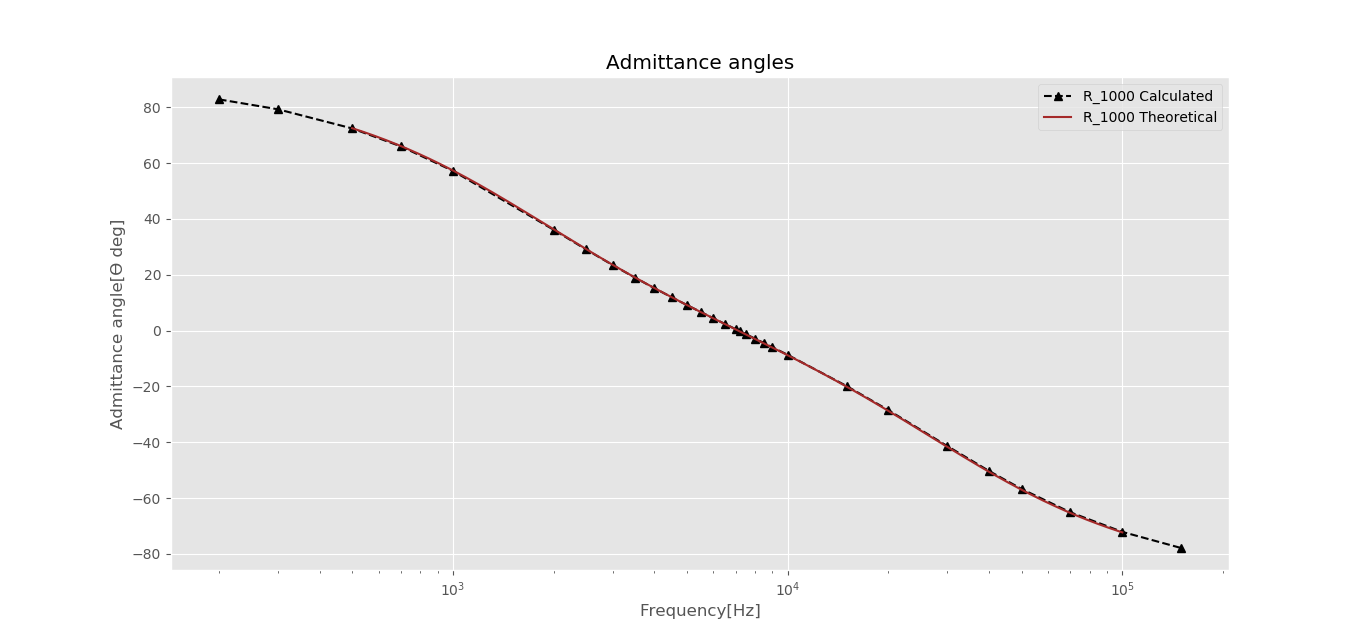
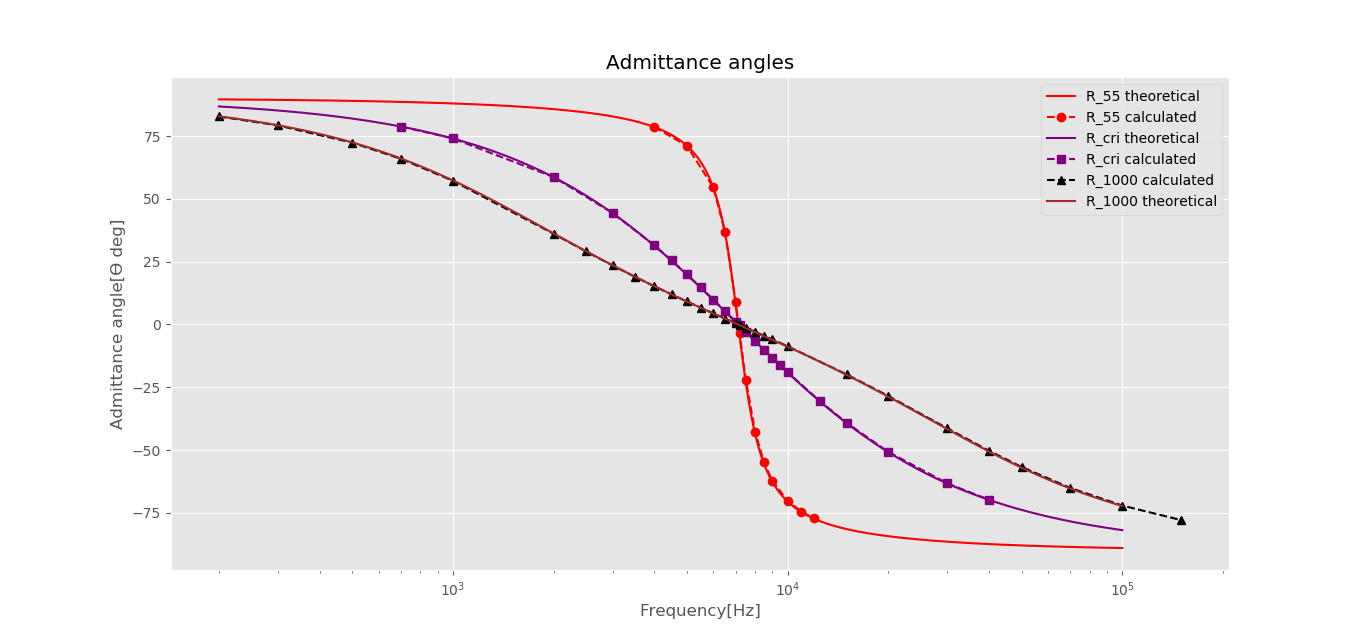
Finally finished

diff --git a/jikken20191205.py b/jikken20191205.py
@@ -89,17 +89,17 @@ df_1000.columns = ["frequency", "X/R", "L/R", "C/R"]
 df_45 = df_45[df_45["X/R"]>=-1.5]
 df_45 = df_45[df_45["X/R"]<=1.5]
 
-df_55 = df_55[df_55["X/R"]>=-1.5]
-df_55 = df_55[df_55["X/R"]<=1.5]
+df_55 = df_55[df_55["X/R"]>=-5]
+df_55 = df_55[df_55["X/R"]<=5]
 
 df_65 = df_65[df_65["X/R"]>=-1.5]
 df_65 = df_65[df_65["X/R"]<=1.5]
 
-df_447 = df_447[df_447["X/R"]>=-1.5]
-df_447 = df_447[df_447["X/R"]<=1.5]
+df_447 = df_447[df_447["X/R"]>=-5.1]
+df_447 = df_447[df_447["X/R"]<=3]
 
-df_1000 = df_1000[df_1000["X/R"]>=-1.5]
-df_1000 = df_1000[df_1000["X/R"]<=1.5]
+df_1000 = df_1000[df_1000["X/R"]>=-8]
+df_1000 = df_1000[df_1000["X/R"]<=5]
 
 
 x_min_1 = [i for i in range(df_1000.iloc[0,0],2000,10)]
@@ -115,7 +115,45 @@ y_l_range_1 = np.arange(-1.2,-0.4,0.01)
 
 y_l_range_2 = np.arange(-0.8,1.2,0.01)
 
-plt.plot(df_1000["frequency"],df_1000["X/R"],color="blue",label = "VX1k")
+
+
+f_c_1000 = [200,300,500,700,1000,2000,2500,3000,3500,4000,4500,5000,5500,6000
+,6500,7000,7186,7500,8000,8500,9000,10000,15000,20000,30000,40000,50000,70000,100000,150000]
+
+a_c_1000 = [-7.96499748
+,-5.304852833
+,-3.173032364
+,-2.255866686
+,-1.56336149
+,-0.7353713599
+,-0.560511457
+,-0.4387927011
+,-0.347440315
+,-0.2750669101
+,-0.2153461592
+,-0.1644822662
+,-0.1200597243
+,-0.08046819577
+,-0.0445928314
+,-0.01163731027
+,0
+,0.01898233626
+,0.04770408468
+,0.07486285818
+,0.1007191526
+,0.1493057916
+,0.3568115551
+,0.5377467451
+,0.8730465515
+,1.195061071
+,1.511761476
+,2.138329853
+,3.071349985
+,4.620310264]
+
+
+plt.plot(df_1000["frequency"],df_1000["X/R"],color="blue",label = "VX1k theoretical")
+plt.plot(f_c_1000,a_c_1000,color="blue",linestyle = "--",marker = "^",label = "VX1k calculated")
 plt.plot(df_1000["frequency"],df_1000["L/R"],linestyle = ":",color="red",label = "VL1k")
 plt.plot(df_1000["frequency"],df_1000["C/R"],linestyle = "-.",color="green",label = "VC1k")
 plt.plot(x_min_1,[-1]*len(x_min_1),linestyle = "--",color = "black",linewidth = 0.5)
@@ -177,9 +215,19 @@ y_l_range_1 = np.arange(-1.2,-0.4,0.01)
 
 y_l_range_2 = np.arange(-0.8,1.2,0.01)
 
-plt.plot(df_447["frequency"],df_447["X/R"],color="blue",label = "VX1k")
-plt.plot(df_447["frequency"],df_447["L/R"],linestyle = ":",color="red",label = "VL1k")
-plt.plot(df_447["frequency"],df_447["C/R"],linestyle = "-.",color="green",label = "VC1k")
+f_c_cri = [700,1000,2000,3000,4000,4500,5000,5500,6000,6500,7000,7186,7500,8000
+           ,8500,9000,9500,10000,12500,15000,20000,30000,40000]
+
+a_c_cri = [-5.084151326,-3.523420262,-1.657340523,-0.9889274515,-0.6199310465,
+           -0.4853356217,-0.3707013081,-0.2705841662,-0.1813549031,-0.1005009313
+           ,-0.02622754562,0,0.04278137118,0.107512907,0.1687218939,0.2269954232
+           ,0.2827969883,0.3364973838,0.5823067298,0.8041627424,1.211944768
+           ,1.967625485,2.693364535]
+
+plt.plot(df_447["frequency"],df_447["X/R"],color="blue",label = "Vcri theoretical")
+plt.plot(f_c_cri,a_c_cri,color="blue",marker = "^",linestyle = "--",label = "Vcri calculated")
+plt.plot(df_447["frequency"],df_447["L/R"],linestyle = ":",color="red",label = "VL_cri")
+plt.plot(df_447["frequency"],df_447["C/R"],linestyle = "-.",color="green",label = "VC_cri")
 plt.plot(x_min_1,[-1]*len(x_min_1),linestyle = "--",color = "black",linewidth = 0.5)
 plt.plot(x_max_1,[1]*len(x_max_1),linestyle = "--",color = "black", linewidth = 0.5)
 plt.plot([7117.0]*len(y_0),y_0,linestyle = "--",color = "black", linewidth = 0.5)
@@ -235,9 +283,17 @@ y_l_range_1 = np.arange(-1.2,-0.4,0.01)
 
 y_l_range_2 = np.arange(-0.8,1.2,0.01)
 
-plt.plot(df_55["frequency"],df_55["X/R"],color="blue",label = "VX1k")
-plt.plot(df_55["frequency"],df_55["L/R"],linestyle = ":",color="red",label = "VL1k")
-plt.plot(df_55["frequency"],df_55["C/R"],linestyle = "-.",color="green",label = "VC1k")
+f_c_55 = [4000,5000,6000,6500,7000,7186,7500,8000,8500,9000,10000,11000,12000]
+
+a_c_55 = [-5.005501016,-2.993148649,-1.464311485,-0.8114733349,-0.2117687233
+          ,0,0.3454290572,0.8680900376,1.362308947,1.832826131,2.716976357
+          ,3.54251868,4.324105076]
+
+plt.plot(df_55["frequency"],df_55["X/R"],color="blue",label = "VX55 theoretical")
+plt.plot(f_c_55,a_c_55,color="blue",linestyle = "--",marker = "^",label = "VX55 calculated")
+
+plt.plot(df_55["frequency"],df_55["L/R"],linestyle = ":",color="red",label = "VL55")
+plt.plot(df_55["frequency"],df_55["C/R"],linestyle = "-.",color="green",label = "VC55")
 plt.plot(x_min_1,[-1]*len(x_min_1),linestyle = "--",color = "black",linewidth = 0.5)
 plt.plot(x_max_1,[1]*len(x_max_1),linestyle = "--",color = "black", linewidth = 0.5)
 plt.plot([7117.0]*len(y_0),y_0,linestyle = "--",color = "black", linewidth = 0.5)
@@ -339,35 +395,66 @@ print(y_2_1000[-1])
 df_2_45 = pd.DataFrame(y_2_45)
 #df_45 = df_45.transpose()
 df_2_45.columns = ["frequency", "a_r", "theta"]
-df_2_45 = df_2_45[df_2_45["frequency"]>=500]
+df_2_45 = df_2_45[df_2_45["frequency"]>=200]
 
 df_2_55 = pd.DataFrame(y_2_55)
 #df_55 = df_55.transpose()
 df_2_55.columns = ["frequency", "a_r", "theta"]
-df_2_55 = df_2_55[df_2_55["frequency"]>=500]
+df_2_55 = df_2_55[df_2_55["frequency"]>=200]
 df_2_65 = pd.DataFrame(y_2_65)
 #df_65 = df_65.transpose()
 df_2_65.columns = ["frequency", "a_r", "theta"]
-df_2_65 = df_2_65[df_2_65["frequency"]>=500]
+df_2_65 = df_2_65[df_2_65["frequency"]>=200]
 df_2_447 = pd.DataFrame(y_2_447)
 #df_2_447 = df_2_447.transpose()
 df_2_447.columns = ["frequency", "a_r", "theta"]
-df_2_447 = df_2_447[df_2_447["frequency"]>=500]
+df_2_447 = df_2_447[df_2_447["frequency"]>=200]
 df_2_1000 = pd.DataFrame(y_2_1000)
 #df_2_1000 = df_2_1000.transpose()
 df_2_1000.columns = ["frequency", "a_r", "theta"]
-df_2_1000 = df_2_1000[df_2_1000["frequency"]>=500]
+df_2_1000 = df_2_1000[df_2_1000["frequency"]>=200]
 
 x_max = [i for i in range(500,100000,10)]
 y_l_range_1 = np.arange(0.1,0.7071,0.01)
 
 y_l_range_2 = np.arange(0.1,0.7071,0.01)
 
+
+f_c_55 = [4000,5000,6000,6500,7000,7186,7500,8000,8500,9000,10000,11000,12000]
+r_c_55 = [0.1980382166,0.3228587262,0.5824262133,0.8041896846,0.9909438593,0.9969919272
+          ,0.9201027747,0.7241196452,0.5675194628,0.4608886527,0.334401563,0.264065216,0.2195826859]
+a_c_55 = [-5.005501016,-2.993148649,-1.464311485,-0.8114733349,-0.2117687233
+          ,0,0.3454290572,0.8680900376,1.362308947,1.832826131,2.716976357
+          ,3.54251868,4.324105076]
+
+f_c_cri = [700,1000,2000,3000,4000,4500,5000,5500,6000,6500,7000,7186,7500,8000
+           ,8500,9000,9500,10000,12500,15000,20000,30000,40000]
+r_c_cri = [0.1933500199,0.2735681664,0.5178938103,0.7130765429,0.8523785658
+           ,0.9020651428,0.9398791836,0.9671742543,0.9853642141,0.995830006
+           ,0.9998589835,0.9999535796,0.9986108932,0.993103724,0.9842131391
+           ,0.9726803628,0.9591246922,0.9440579787,0.8582283279,0.7721770576
+           ,0.6287795731,0.4464221896,0.3425882718]
+
+f_c_1000 = [200,300,500,700,1000,2000,2500,3000,3500,4000,4500,5000,5500,6000
+,6500,7000,7186,7500,8000,8500,9000,10000,15000,20000,30000,40000,50000,70000,100000,150000]
+r_c_1000 = [0.1247800941,0.1855518723,0.3010687553,0.4058897609,0.5396333826
+            ,0.8065551563,0.8732198414,0.9165712733,0.9453889816,0.9648870686
+            ,0.9781974215,0.9872504415,0.9932724693,0.9970667025,0.9991748017
+            ,0.9999722296,0.9999908595,0.9997260317,0.9986307895,0.9968315599
+            ,0.994438853,0.9881990594,0.9393403011,0.8766815485,0.7472099465
+            ,0.634908497,0.5448629131,0.4175147677,0.3047158307,0.2080323264]
+
+
+
+
 #plt.plot(df_2_45["frequency"],df_2_45["a_r"],color="blue",label = "R_45")
-plt.plot(df_2_55["frequency"],df_2_55["a_r"],color="red",label = "R_55")
+plt.plot(df_2_55["frequency"],df_2_55["a_r"],color="red",label = "R_55 theoretical")
+plt.plot(f_c_55,r_c_55,color="red",linestyle= "--",marker = "^",label = "R_55 calculated")
 #plt.plot(df_2_65["frequency"],df_2_65["a_r"],color="green",label = "R_65")
 plt.plot(df_2_447["frequency"],df_2_447["a_r"],color="purple",label = "R_cri")
-plt.plot(df_2_1000["frequency"],df_2_1000["a_r"],color="brown",label = "R_1000")
+plt.plot(f_c_cri,r_c_cri,color="purple",marker = "o",linestyle = "--",label = "R_cri calculated")
+plt.plot(df_2_1000["frequency"],df_2_1000["a_r"],color="brown",label = "R_1000 theoretical")
+plt.plot(f_c_1000,r_c_1000,color="brown",marker = "s",linestyle = "--",label = "R_1000 calculated")
 plt.plot(x_max,[0.7071]*len(x_max),linestyle = "--",color = "black", linewidth = 0.5)
 plt.plot([6290.0]*len(y_l_range_1),y_l_range_1,color = "black", linewidth = 0.5,linestyle = "--")
 plt.plot([8060.0]*len(y_l_range_2),y_l_range_1,color = "black", linewidth = 0.5,linestyle = "--")
@@ -380,21 +467,31 @@ plt.legend()
 plt.show()
 
 
-f_c = [ 200,300,500,700,1000,2000,2500,3000,3500,4000,4500,5000,5500,6000,6500
-       ,7000,7186,7500,8000,8500,9000,10000,15000,20000,30000,40000,50000,
-       70000,100000,150000]
 
-theta_c= [82.79366903,79.25037949,72.38980708,65.93944603,57.20352173,36.10363196
+
+theta_c_55 = [78.54268797,71.15243052,54.55384405,36.98174378,8.759498138,-3.290911254
+,-21.93536382,-42.77652659,-54.83759305,-62.12129123,-70.18640511,-74.48641308,-77.15616709]
+
+
+theta_c_cri = [78.79348426,74.04339674,58.68263604,44.38998616,31.44836791
+,25.52103653,19.95646851,14.74624239,9.877111289,5.332568934
+,1.094138953,-0.4083482207,-2.857613901,-6.542325125,-9.979286395
+,-13.18707492,-16.18331757,-18.9845562,-30.56480789,-39.12248665
+,-50.73248222,-63.24355373,-69.77258372]
+
+theta_c_1000= [82.79366903,79.25037949,72.38980708,65.93944603,57.20352173,36.10363196
           ,29.05049817,23.47919242,18.95512994,15.1826246,11.96117211,9.152993193
           ,6.661579786,4.417931621,2.371721217,0.4855496786,-0.1811988199,-1.268853982,
          -2.913195864,-4.464378645,-5.935734423,-8.679464492,-19.84445474,-28.49132266,
             -41.35093554,-50.2938861,-56.71311531,-65.09750115,-72.08731932,-77.87271455]
 #plt.plot(df_2_45["frequency"],df_2_45["theta"],color="blue",label = "R_45")
-#plt.plot(df_2_55["frequency"],df_2_55["theta"],color="red",label = "R_55")
+plt.plot(df_2_55["frequency"],df_2_55["theta"],color="red",label = "R_55 theoretical")
+plt.plot(f_c_55,theta_c_55,color="red",linestyle= "--",marker= "o",label = "R_55 calculated")
 #plt.plot(df_2_65["frequency"],df_2_65["theta"],color="green",label = "R_65")
-#plt.plot(df_2_447["frequency"],df_2_447["theta"],color="purple",label = "R_cri")
-plt.plot(f_c,theta_c,color="black",linestyle= "--",marker= "^",label = "R_1000 Calculated")
-plt.plot(df_2_1000["frequency"],df_2_1000["theta"],color="brown",label = "R_1000 Theoretical")
+plt.plot(df_2_447["frequency"],df_2_447["theta"],color="purple",label = "R_cri theoretical")
+plt.plot(f_c_cri,theta_c_cri,color="purple",linestyle= "--",marker= "s",label = "R_cri calculated")
+plt.plot(f_c_1000,theta_c_1000,color="black",linestyle= "--",marker= "^",label = "R_1000 calculated")
+plt.plot(df_2_1000["frequency"],df_2_1000["theta"],color="brown",label = "R_1000 theoretical")
 
 
 plt.xscale("log")
@@ -422,3 +519,92 @@ plt.ylabel("Admittance ratio")
 
 plt.legend()
 plt.show()
+
+
+
+
+
+
+import numpy as np
+import matplotlib.pyplot as plt
+
+
+rows,cols = M.T.shape
+
+maxes = 1.1*np.amax(abs(M), axis = 0)
+
+for i,l in enumerate(range(0,cols)):
+    xs = [0,M[i,0]]
+    ys = [0,M[i,1]]
+    plt.arrow(xs,ys)
+
+plt.arrow(0,0,'ok') #<-- plot a black point at the origin
+plt.axis('equal')  #<-- set the axes to the same scale
+plt.xlim([-maxes[0],maxes[0]]) #<-- set the x axis limits
+plt.ylim([-maxes[1],maxes[1]]) #<-- set the y axis limits
+plt.legend(['V'+str(i+1) for i in range(cols)]) #<-- give a legend
+plt.grid(b=True, which='major') #<-- plot grid lines
+plt.show()
+
+
+plt.quiver([0, 0, 0, 0], [0, 0, 0,0], [84.6,0,0,84.6], [0,-111.8,18.20,-83.6],
+           color = ["r","g","b","k"],label = ["a","b","c","d"], angles='xy', scale_units='xy', scale=1)
+plt.xlim(-100, 100)
+plt.ylim(-120, 120)
+plt.legend()
+plt.show()
+\
+plt.style.use("ggplot")
+plt.quiver(0,0,84.6,0,angles="xy",scale_units="xy",scale=1,color='r',label="V_R")
+plt.quiver(0,0,0,-111.8,angles="xy",scale_units="xy",scale=1,color='b',label="V_C")
+plt.quiver(0,0,0,18.20,angles="xy",scale_units="xy",scale=1,color='g',label="V_L")
+plt.quiver(0,0,84.6,-83.6,angles="xy",scale_units="xy",scale=1,color='black',label="V_X")
+plt.xlim(-120, 120)
+plt.ylim(-120, 120)
+plt.xlabel("Voltage across real axis")
+plt.ylabel("voltage across imaginary axis")
+plt.title("Phasor at f_1")
+
+plt.legend()
+plt.show()
+
+
+plt.style.use("ggplot")
+plt.quiver(0,0,112.4,0,angles="xy",scale_units="xy",scale=1,color='r',label="V_R")
+plt.quiver(0,0,0,-57.0,angles="xy",scale_units="xy",scale=1,color='b',label="V_C")
+plt.quiver(0,0,0,57.0,angles="xy",scale_units="xy",scale=1,color='g',label="V_L")
+plt.quiver(0,0,112.0,-2.02,angles="xy",scale_units="xy",scale=1,color='black',label="V_X")
+plt.xlim(-120, 120)
+plt.ylim(-120, 120)
+plt.xlabel("Voltage across real axis")
+plt.ylabel("voltage across imaginary axis")
+plt.title("Phasor at f_0")
+
+plt.legend()
+plt.show()
+
+plt.style.use("ggplot")
+plt.quiver(0,0,83.8,0,angles="xy",scale_units="xy",scale=1,color='r',label="V_R")
+plt.quiver(0,0,0,-18.30,angles="xy",scale_units="xy",scale=1,color='b',label="V_C")
+plt.quiver(0,0,0,77.8,angles="xy",scale_units="xy",scale=1,color='g',label="V_L")
+plt.quiver(0,0,83.8,82.8,angles="xy",scale_units="xy",scale=1,color='black',label="V_X")
+plt.xlim(-120, 120)
+plt.ylim(-120, 120)
+plt.xlabel("Voltage across real axis")
+plt.ylabel("voltage across imaginary axis")
+plt.title("Phasor at f_2")
+
+plt.legend()
+plt.show()
+
+
+
+
+
+
+
+
+
+
+
+
